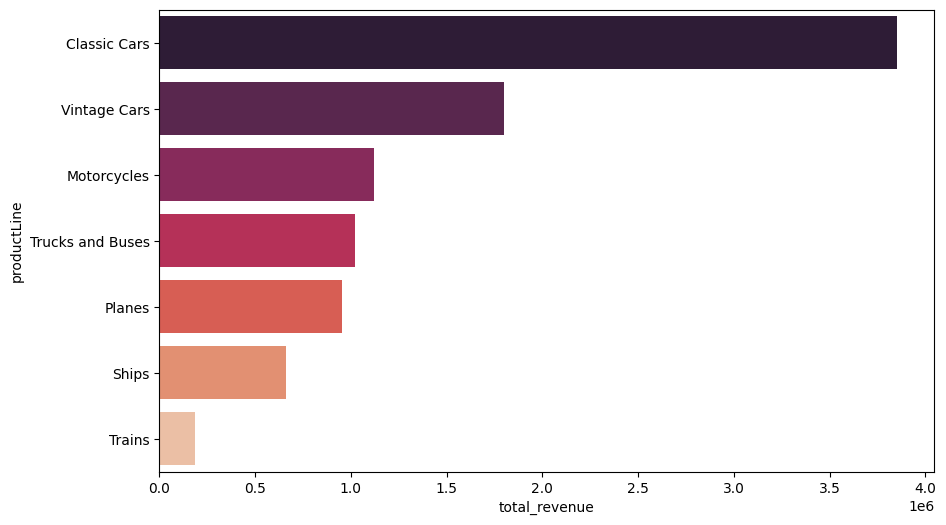
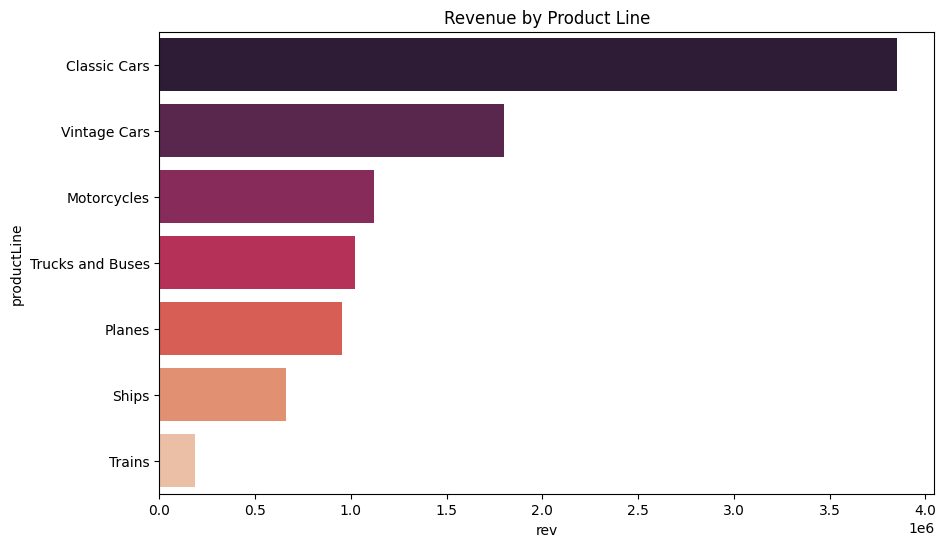
Visualisation complète!

diff --git a/src/analysis/generate.visuals.py b/src/analysis/generate.visuals.py
@@ -1,56 +1,98 @@
 import matplotlib.pyplot as plt 
 import seaborn as sns
 import os
+import pandas as pd
 from connection import get_db_data
 
 def run_analysis():
-    # 1. SETUP PATHS (This is where target_folder is born)
+    # 1. SETUP BASE PATHS
     current_dir = os.path.dirname(os.path.abspath(__file__))
     project_root = os.path.abspath(os.path.join(current_dir, "../../"))
-    target_folder = os.path.join(project_root, "visualisations")
-    os.makedirs(target_folder, exist_ok=True)
+    viz_folder = os.path.join(project_root, "visualisations")
+    os.makedirs(viz_folder, exist_ok=True)
 
-    # --- CHART 1: Distribution by Country ---
-    print("Step 1: Generating Country Chart...")
-    query_geo = "SELECT country, COUNT(*) AS nb_customers FROM customers GROUP BY country ORDER BY nb_customers DESC;"
-    df_geo = get_db_data(query_geo)
+    # --- CHART 1: Country Distribution (Bar Chart) ---
+    print("Generating Chart 1 (Geography)...")
+    q1 = "SELECT country, COUNT(*) AS nb FROM customers GROUP BY country ORDER BY nb DESC;"
+    df1 = get_db_data(q1)
     plt.figure(figsize=(10, 6))
-    sns.barplot(data=df_geo, x='nb_customers', y='country', hue='country', palette='viridis', legend=False)
-    plt.savefig(os.path.join(target_folder, "sales_by_country.png"), bbox_inches='tight')
+    sns.barplot(data=df1, x='nb', y='country', hue='country', palette='viridis', legend=False)
+    plt.title('Customer Distribution by Country')
+    plt.savefig(os.path.join(viz_folder, "sales_by_country.png"), bbox_inches='tight')
     plt.close()
 
-    # --- CHART 2: Top 10 Products ---
-    print("Step 2: Generating Top 10 Products Chart...")
-    query_prod = """
-        SELECT p.productName, SUM(od.quantityOrdered) AS total_quantity
-        FROM orderdetails od
-        JOIN products p ON od.productCode = p.productCode
-        GROUP BY p.productName
-        ORDER BY total_quantity DESC LIMIT 10;
+    # --- CHART 2: Top 10 Products (Bar Chart) ---
+    print("Generating Chart 2 (Top Products)...")
+    q2 = """
+        SELECT p.productName, SUM(od.quantityOrdered) AS qty 
+        FROM orderdetails od 
+        JOIN products p ON od.productCode = p.productCode 
+        GROUP BY p.productName 
+        ORDER BY qty DESC LIMIT 10;
     """
-    df_prod = get_db_data(query_prod)
+    df2 = get_db_data(q2)
     plt.figure(figsize=(10, 6))
-    sns.barplot(data=df_prod, x='total_quantity', y='productName', hue='productName', palette='coolwarm', legend=False)
-    plt.savefig(os.path.join(target_folder, "top_10_products.png"), bbox_inches='tight')
+    sns.barplot(data=df2, x='qty', y='productName', hue='productName', palette='coolwarm', legend=False)
+    plt.title('Top 10 Best Selling Products')
+    plt.savefig(os.path.join(viz_folder, "top_10_products.png"), bbox_inches='tight')
     plt.close()
 
-    # --- CHART 3: Revenue by Product Line ---
-    print("Step 3: Generating Product Line Chart...")
-    query_line = """
-        SELECT p.productLine, SUM(od.quantityOrdered * od.priceEach) AS total_revenue
-        FROM orderdetails od
-        JOIN products p ON od.productCode = p.productCode
-        GROUP BY p.productLine
-        ORDER BY total_revenue DESC;
+    # --- CHART 3: Revenue by Line (Bar Chart) ---
+    print("Generating Chart 3 (Product Lines)...")
+    q3 = """
+        SELECT p.productLine, SUM(od.quantityOrdered * od.priceEach) AS rev 
+        FROM orderdetails od 
+        JOIN products p ON od.productCode = p.productCode 
+        GROUP BY p.productLine ORDER BY rev DESC;
     """
-    df_line = get_db_data(query_line)
+    df3 = get_db_data(q3)
     plt.figure(figsize=(10, 6))
-    sns.barplot(data=df_line, x='total_revenue', y='productLine', hue='productLine', palette='rocket', legend=False)
-    plt.savefig(os.path.join(target_folder, "revenue_by_product_line.png"), bbox_inches='tight')
+    sns.barplot(data=df3, x='rev', y='productLine', hue='productLine', palette='rocket', legend=False)
+    plt.title('Revenue by Product Line')
+    plt.savefig(os.path.join(viz_folder, "revenue_by_product_line.png"), bbox_inches='tight')
     plt.close()
 
-    print(f"SUCCESS! in: {target_folder}")
+    # --- CHART 4: Low Stock (Inventory Analysis) ---
+    print("Generating Chart 4 (Low Stock)...")
+    q4 = "SELECT productName, quantityInStock FROM products WHERE quantityInStock < 1000 ORDER BY quantityInStock ASC;"
+    df4 = get_db_data(q4)
+    if not df4.empty:
+        plt.figure(figsize=(10, 6))
+        sns.barplot(data=df4, x='quantityInStock', y='productName', hue='productName', palette='autumn', legend=False)
+        plt.title('Critical Stock Levels (<1000 units)')
+        plt.savefig(os.path.join(viz_folder, "low_stock_inventory.png"), bbox_inches='tight')
+        plt.close()
 
+    # Vis 5: Sales Evolution 
+    print("Generating Chart 5 (Time Series)...")
+    q5 = """
+        SELECT DATE_FORMAT(orderDate, '%Y-%m') AS month, SUM(quantityOrdered * priceEach) AS monthly_sales
+        FROM orders o
+        JOIN orderdetails od ON o.orderNumber = od.orderNumber
+        GROUP BY month
+        ORDER BY month;
+    """
+    df5 = get_db_data(q5)
+    plt.figure(figsize=(12, 6))
+    plt.plot(df5['month'], df5['monthly_sales'], marker='o', linestyle='-', color='b')
+    plt.xticks(rotation=45)
+    plt.title('Monthly Sales Evolution')
+    plt.grid(True, linestyle='--', alpha=0.6)
+    plt.tight_layout()
+    plt.savefig(os.path.join(viz_folder, "sales_evolution.png"))
+    plt.close()
+
+    # Vis 6: Correlation (Heatmap)
+    print("Generating Chart 6 (Correlation Heatmap)...")
+    q6 = "SELECT quantityOrdered, priceEach, (quantityOrdered * priceEach) AS total_val FROM orderdetails;"
+    df6 = get_db_data(q6)
+    plt.figure(figsize=(8, 6))
+    sns.heatmap(df6.corr(), annot=True, cmap='YlGnBu', fmt=".2f")
+    plt.title('Correlation Matrix: Quantity vs Price')
+    plt.savefig(os.path.join(viz_folder, "correlation_heatmap.png"), bbox_inches='tight')
+    plt.close()
+
+    print(f"DONE! in: {viz_folder}")
 
 if __name__ == "__main__":
     run_analysis()
